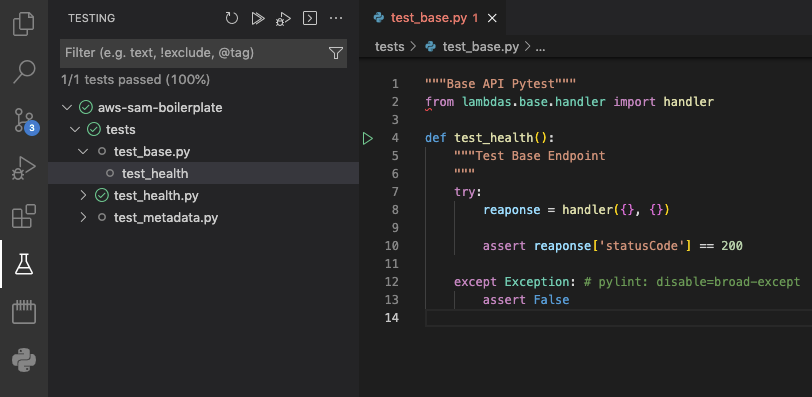
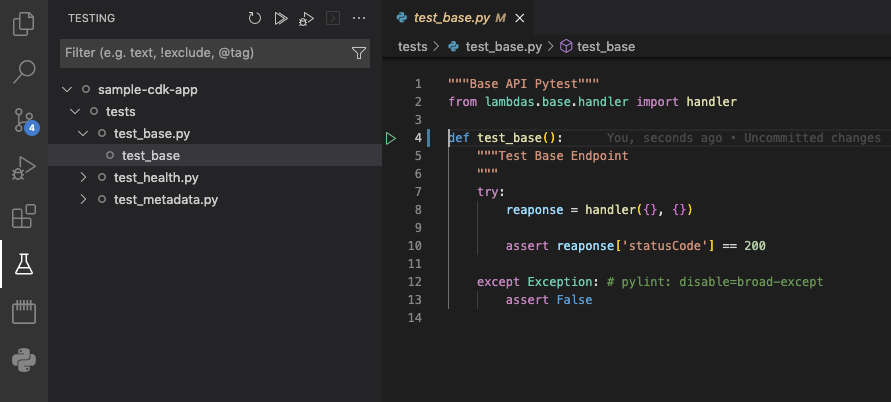
Clean up pytests

diff --git a/tests/test_metadata.py b/tests/test_metadata.py
@@ -1,8 +1,8 @@
 """Metadata API Pytest"""
 from lambdas.metadata.handler import handler
 
-def test_health():
-    """Test Health Endpoint
+def test_metadata():
+    """Test Metadata Endpoint
     """
     try:
         reaponse = handler({}, {})

diff --git a/tests/test_base.py b/tests/test_base.py
@@ -1,7 +1,7 @@
 """Base API Pytest"""
 from lambdas.base.handler import handler
 
-def test_health():
+def test_base():
     """Test Base Endpoint
     """
     try:
